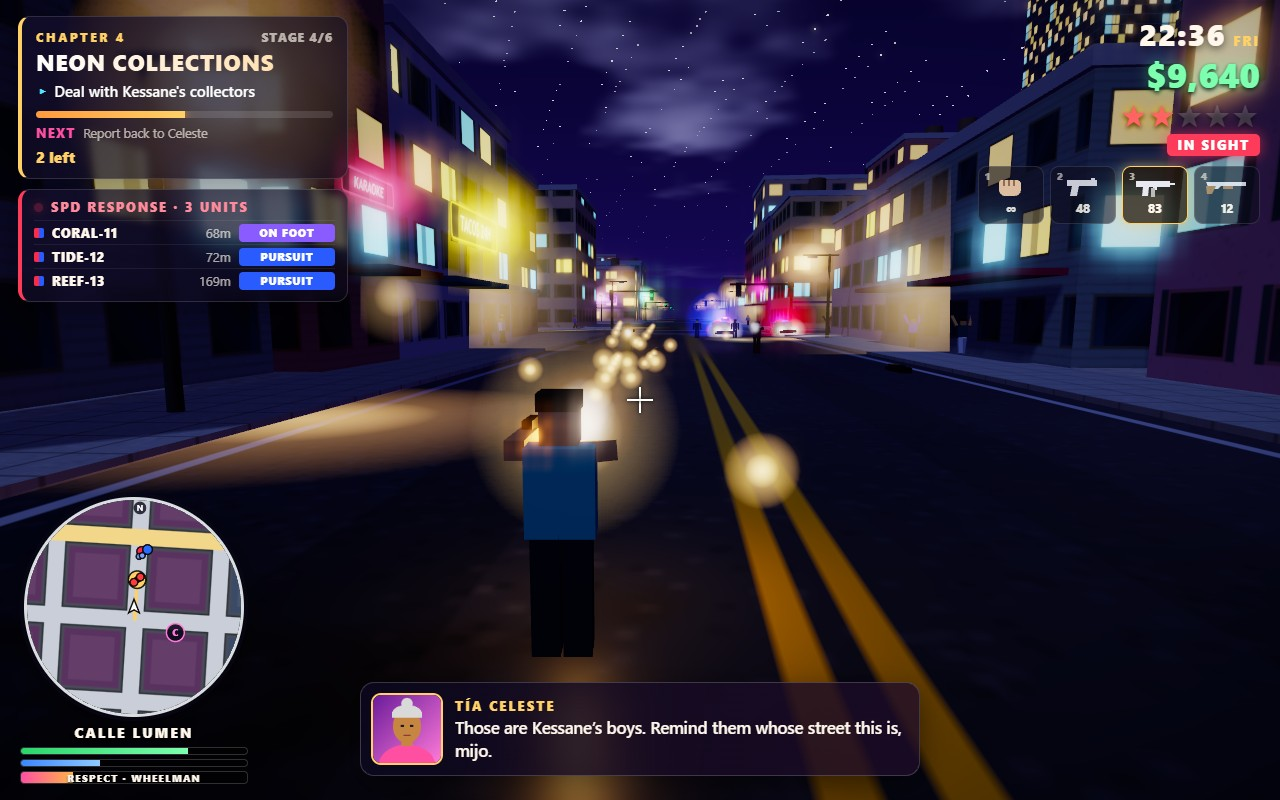
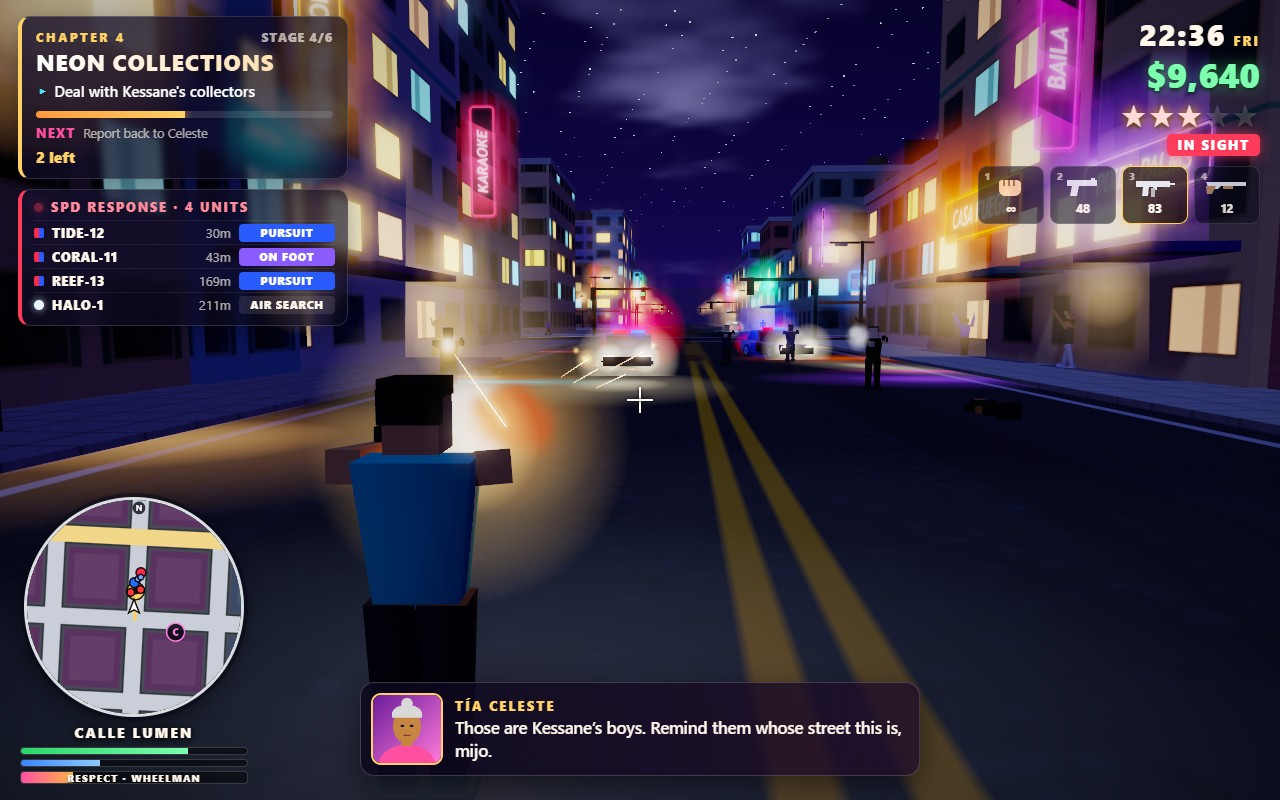
Causeway motorbike chase shot, riders on bikes and boats, searchlight and glow fixes, shot staging tools

diff --git a/game/src/shots/screenshotDirector.js b/game/src/shots/screenshotDirector.js
@@ -10,6 +10,7 @@
 //   map    - the full map with the story so far
 import * as THREE from 'three';
 import { wrapAngle, clamp } from '../core/mathUtils.js';
+import { RACES } from '../missions/sideActivities.js';
 
 const STEP = 1 / 60;
 
@@ -187,6 +188,58 @@ const SCENES = {
     game.autopilot = null;
     game.dialogue.pin('halloran', 'Kessane’s yacht just docked at the villa. Every cop in Solenne is on the causeway. Go!', game.cast);
     game.audio.radio = { nowPlaying: { station: 'RADIO CALOR 94.7', title: 'Marea Alta', artist: 'La Sonora Neón', art: 'linear-gradient(135deg,#ff3b3b,#ffd166)' } };
+    finalFrames(game);
+  },
+
+  async causeway(game) {
+    setup(game, 19.45);
+    game.teleportPlayer(560, -296, Math.PI / 2);
+    // keep the eastbound lane of the causeway clear for the run
+    for (const v of game.vehicles.list.slice()) if (Math.abs(v.body.z + 300) < 14 && v.body.x > 540 && v.body.x < 900) game.vehicles.remove(v);
+    const bike = game.vehicles.spawn('bike', 600, -295, Math.PI / 2, { role: 'mission', paint: 0x00f5d4 });
+    bike.body.invulnerable = true;
+    game.player.enterVehicle(bike, false);
+    bike.body.setVelocityForward(42);
+    game.state.storyIndex = 6;
+    game.state.money = 61380;
+    game.state.respect = 1240;
+    game.state.health = 91;
+    game.state.armour = 80;
+    game.state.weapons.smg = true;
+    game.state.ammo.smg = 120;
+    game.state.weapon = 'pistol';
+    game.state.races = { 'lumen-loop': 71.2, coastline: 66.8 };
+    game.activities.startRace(RACES[2]);
+    game.activities.cp = 2;
+    game.activities.time = 24.6;
+    game.autopilot = laneAutopilot(bike, -295, Math.PI / 2);
+    simulate(game, 1.4);
+    game.autopilot = null;
+    const pb = bike.body;
+    game.police.setWanted(2);
+    addUnit(game, 'patrol', pb.x - 5, -302.5, Math.PI / 2, pb.speed);
+    addUnit(game, 'patrol', pb.x - 10, -297, Math.PI / 2, pb.speed);
+    const flank = game.police.units.slice(0, 2);
+    flank.forEach((u, k) => {
+      const b = u.vehicle.body;
+      b.x = pb.x + (k ? -2.5 : 3.5); b.z = k ? -306.5 : -302.2; b.heading = pb.heading + (k ? 0.03 : 0.1);
+      b.setVelocityForward(pb.speed);
+      u.status = k ? 'PURSUIT' : 'RAMMING';
+      game.vehicles.syncMesh(u.vehicle);
+    });
+    game.police.setWanted(3);
+    const heli = game.police.heli;
+    heli.activate(pb.x, pb.z);
+    heli.x = pb.x + 60; heli.z = pb.z + 14; heli.y = 21;
+    heli.heading = Math.atan2(pb.x - heli.x, pb.z - heli.z);
+    heli.aim.set(pb.x + 3, 0, pb.z);
+    heli.update(0, { x: pb.x, z: pb.z });
+    game.police.inSight = true;
+    game.police.lastSeen = { x: pb.x, z: pb.z };
+    game.player.seatRider(bike);
+    game.dialogue.pin('dispatch', 'All units: motorcycle eastbound on the Halcyon Causeway. Close the island road!', game.cast);
+    game.audio.radio = { nowPlaying: { station: 'RADIO CALOR 94.7', title: 'Noche de Verano', artist: 'Santa Brisa', art: 'linear-gradient(135deg,#ff3b3b,#ffd166)' } };
+    game.cameraRig.shake = 0;
     finalFrames(game);
   },
 

diff --git a/game/src/ai/policeHelicopter.js b/game/src/ai/policeHelicopter.js
@@ -47,7 +47,15 @@ export class PoliceHelicopter {
     const coneGeo = new THREE.ConeGeometry(1, 1, 24, 1, true);
     coneGeo.translate(0, -0.5, 0);
     coneGeo.rotateX(-Math.PI / 2);
-    this.beam = new THREE.Mesh(coneGeo, new THREE.MeshBasicMaterial({ color: 0xbfdcff, transparent: true, opacity: 0.12, blending: THREE.AdditiveBlending, depthWrite: false, side: THREE.DoubleSide }));
+    // brightest at the lamp, fading toward the ground
+    const pos = coneGeo.attributes.position;
+    const fade = new Float32Array(pos.count * 3);
+    for (let i = 0; i < pos.count; i += 1) {
+      const k = 1 - 0.85 * Math.min(1, pos.getZ(i));
+      fade[i * 3] = fade[i * 3 + 1] = fade[i * 3 + 2] = k;
+    }
+    coneGeo.setAttribute('color', new THREE.BufferAttribute(fade, 3));
+    this.beam = new THREE.Mesh(coneGeo, new THREE.MeshBasicMaterial({ color: 0xbfdcff, vertexColors: true, transparent: true, opacity: 0.12, blending: THREE.AdditiveBlending, depthWrite: false, side: THREE.DoubleSide }));
     this.beam.renderOrder = 8;
     this.pool = new THREE.Mesh(new THREE.PlaneGeometry(1, 1).rotateX(-Math.PI / 2), new THREE.MeshBasicMaterial({ map: glowTexture(), color: 0xdcecff, transparent: true, opacity: 0.8, blending: THREE.AdditiveBlending, depthWrite: false }));
     this.pool.renderOrder = 4;
@@ -120,12 +128,13 @@ export class PoliceHelicopter {
     const len = Math.hypot(toX, toY, toZ);
     this.beam.position.set(lx, ly, lz);
     this.beam.lookAt(this.aim.x, 0, this.aim.z);
-    const radius = len * Math.tan(0.13);
+    const radius = Math.min(8, len * Math.tan(0.13));
     this.beam.scale.set(radius, radius, len);
-    this.beam.material.opacity = 0.012 + night * 0.1;
+    const near = Math.max(0, 1 - Math.max(0, len - 90) / 80);
+    this.beam.material.opacity = (0.012 + night * 0.07) * near;
     this.pool.position.set(this.aim.x, 0.15, this.aim.z);
-    this.pool.scale.set(radius * 3.2, 1, radius * 3.2);
-    this.pool.material.opacity = 0.12 + night * 0.55;
+    this.pool.scale.set(radius * 2.6, 1, radius * 2.6);
+    this.pool.material.opacity = (0.12 + night * 0.38) * Math.max(0.3, near);
     this.lamp = { x: lx, y: ly, z: lz };
   }
 

diff --git a/game/src/actors/playerController.js b/game/src/actors/playerController.js
@@ -35,6 +35,7 @@ export class PlayerController {
     this.figure.x = x; this.figure.z = z; this.figure.y = 0; this.figure.yaw = yaw;
     this.figure.visible = true;
     this.figure.state = 'idle';
+    this.figure.roll = 0;
   }
 
   update(dt) {
@@ -153,6 +154,7 @@ export class PlayerController {
     v.siren = false;
     this.vehicle = v;
     this.figure.visible = false;
+    this.seatRider(v);
     this.enterCooldown = 0.6;
     this.aiming = false;
     game.cameraRig.snapBehind(v.body.heading);
@@ -210,6 +212,7 @@ export class PlayerController {
     }
     const b = v.body;
     this.figure.x = b.x; this.figure.z = b.z;
+    this.seatRider(v);
     const st = this.game.state.stats;
     st.distance += b.speed * dt;
     st.maxSpeed = Math.max(st.maxSpeed, b.speed * 3.6);
@@ -217,6 +220,25 @@ export class PlayerController {
       if (v.body.sunk) this.exitSinking();
       else { this.damage(80, 'explosion'); this.exitVehicleForced(); }
     }
+  }
+
+  /** On a bike or at a boat's wheel the rider stays visible, posed on the vehicle. */
+  seatRider(v) {
+    const fig = this.figure;
+    const open = v.def.kind === 'bike' || v.def.kind === 'boat';
+    fig.visible = open;
+    if (!open) return;
+    const b = v.body;
+    const boat = v.def.kind === 'boat';
+    const back = boat ? -0.25 : -0.15;
+    fig.x = b.x + Math.sin(b.heading) * back + (boat ? Math.cos(b.heading) * -0.35 : 0);
+    fig.z = b.z + Math.cos(b.heading) * back - (boat ? Math.sin(b.heading) * -0.35 : 0);
+    fig.y = v.mesh.position.y + (boat ? 0.95 : 0.12);
+    fig.yaw = b.heading;
+    fig.roll = boat ? 0 : v.mesh.rotation.z;
+    fig.state = boat ? 'helm' : 'ride';
+    fig.speed = 0;
+    fig.aim = false;
   }
 
   exitSinking() {

diff --git a/game/src/render/particleEffects.js b/game/src/render/particleEffects.js
@@ -108,8 +108,9 @@ export class ParticleEffects {
     this.screenFlash = Math.max(0, this.screenFlash - dt * 2.5);
   }
 
-  flash(x, y, z, color, power, duration) {
+  flash(x, y, z, color, power, duration, reach = 14) {
     this.flashLight.position.set(x, y, z);
+    this.flashLight.distance = reach;
     this.flashLight.color.set(color);
     this.flashPower = power;
     this.flashDuration = duration;
@@ -144,7 +145,7 @@ export class ParticleEffects {
     this.hot.emit(x, y, z, dx * 2, 0, dz * 2, 0xffe0a0, big ? 2.6 : 1.8, 0.07, 0);
     this.hot.emit(x + dx * 0.4, y, z + dz * 0.4, dx * 6, 0, dz * 6, 0xff9a30, big ? 1.6 : 1.1, 0.06, 0);
     this.soft.emit(x, y, z, dx * 1.5 + this.r(0.3), 0.6, dz * 1.5 + this.r(0.3), 0xbbbbbb, 0.5, 0.6, 1.4);
-    this.flash(x, y, z, 0xffc070, big ? 30 : 18, 0.06);
+    this.flash(x, y, z, 0xffb060, big ? 7 : 4, 0.06, big ? 12 : 9);
   }
 
   impact(x, y, z) {
@@ -162,7 +163,7 @@ export class ParticleEffects {
     }
     for (let i = 0; i < 30; i += 1) this.soft.emit(x + this.r(2), y + this.rng() * 2, z + this.r(2), this.r(4), 2 + this.rng() * 4, this.r(4), 0x2b2b2b, 3, 2.5 + this.rng() * 1.5, 3);
     this.sparks(x, y, z, 30);
-    this.flash(x, y + 2, z, 0xff9040, 140, 0.6);
+    this.flash(x, y + 2, z, 0xff9040, 120, 0.6, 45);
     this.screenFlash = 0.35;
   }
 

diff --git a/game/src/actors/characterRig.js b/game/src/actors/characterRig.js
@@ -101,7 +101,7 @@ export class CharacterRig {
     const fall = dead ? Math.min(1, fig.deathTime * 3) : 0;
     rootM.compose(
       v.set(fig.x, fig.y + (dead ? 0.15 * fall : 0), fig.z),
-      q.setFromEuler(e.set(-fall * Math.PI / 2, fig.yaw, 0, 'YXZ')),
+      q.setFromEuler(e.set(-fall * Math.PI / 2, fig.yaw, fig.roll || 0, 'YXZ')),
       v.clone().set(s, s, s),
     );
     const swingAmt = Math.min(1, fig.speed / 3) * (fig.speed > 5 ? 0.95 : 0.6);
@@ -112,6 +112,11 @@ export class CharacterRig {
       armL: [-swing * 0.8, 0, -0.06], armR: [swing * 0.8, 0, 0.06],
       torso: [fig.speed > 5 ? 0.12 : 0, 0, 0], head: [0, 0, 0], hair: [0, 0, 0], gun: [0, 0, 0],
     };
+    if (fig.state === 'ride') {
+      angles.legL = [-1.35, 0, -0.18]; angles.legR = [-1.35, 0, 0.18];
+      angles.armL = [-1.15, 0, -0.12]; angles.armR = [-1.15, 0, 0.12];
+    }
+    if (fig.state === 'helm') { angles.armL = [-0.95, 0, -0.1]; angles.armR = [-0.95, 0, 0.1]; }
     if (fig.state === 'flee') { angles.armL = [-2.6, 0, -0.3]; angles.armR = [-2.6, 0, 0.3]; }
     if (fig.state === 'cower') { angles.armL = [-2.2, 0, 0.6]; angles.armR = [-2.2, 0, -0.6]; }
     if (fig.aim) {

diff --git a/game/src/vehicles/vehiclePhysics.js b/game/src/vehicles/vehiclePhysics.js
@@ -139,7 +139,7 @@ function bounce(body, nx, nz, restitution) {
   body.yawRate *= 0.5;
   const speed = -vn;
   if (speed > 6) {
-    body.health = Math.max(0, body.health - (speed - 6) * 2.2 / body.def.mass);
+    if (!body.invulnerable) body.health = Math.max(0, body.health - (speed - 6) * 2.2 / body.def.mass);
     body.lastImpact = speed;
   }
   return speed > 3 ? { speed } : null;
@@ -164,8 +164,8 @@ export function collideVehicles(a, b) {
   b.vx += (j / mb) * nx; b.vz += (j / mb) * nz;
   const speed = -rel;
   if (speed > 5) {
-    a.health = Math.max(0, a.health - speed * 1.2 / ma);
-    b.health = Math.max(0, b.health - speed * 1.2 / mb);
+    if (!a.invulnerable) a.health = Math.max(0, a.health - speed * 1.2 / ma);
+    if (!b.invulnerable) b.health = Math.max(0, b.health - speed * 1.2 / mb);
   }
   return speed;
 }

diff --git a/game/src/render/postEffects.js b/game/src/render/postEffects.js
@@ -93,9 +93,9 @@ export class PostEffects {
   setGrade(night, golden) {
     const g = this.composite.uniforms.grade.value;
     g.set(1 + golden * 0.06 - night * 0.04, 1 - night * 0.02, 1 - golden * 0.06 + night * 0.08);
-    this.composite.uniforms.bloomStrength.value = 0.55 + night * 0.75;
-    this.composite.uniforms.exposure.value = 1.0 + night * 0.25;
-    this.bright.uniforms.threshold.value = 0.95 - night * 0.3;
+    this.composite.uniforms.bloomStrength.value = 0.55 + night * 0.4;
+    this.composite.uniforms.exposure.value = 1.0 + night * 0.15;
+    this.bright.uniforms.threshold.value = 0.95 - night * 0.15;
   }
 
   render(scene, camera) {

diff --git a/game/src/world/streetProps.js b/game/src/world/streetProps.js
@@ -182,7 +182,7 @@ export class StreetProps {
 
   /** Night factor 0..1: light pools and billboard lamps come up after dusk. */
   setNight(night) {
-    if (this.poolMaterial) this.poolMaterial.opacity = 0.6 * night;
+    if (this.poolMaterial) this.poolMaterial.opacity = 0.34 * night;
     for (const m of this.billboardMaterials || []) m.emissiveIntensity = 0.55 * night;
     for (const m of this.neonMaterials || []) m.color.setScalar(0.8 + 0.9 * night);
   }

diff --git a/game/src/render/glowPoints.js b/game/src/render/glowPoints.js
@@ -14,7 +14,8 @@ void main() {
   float depth = -mv.z;
   gl_PointSize = min(size * scale / max(depth, 0.1), 360.0);
   float fog = smoothstep(fogNear, fogFar * 1.25, depth);
-  vAlpha = mix(1.0, night, nightOnly) * (1.0 - fog * 0.85);
+  // fade halos that pass right by the camera instead of letting them fill the screen
+  vAlpha = mix(1.0, night, nightOnly) * (1.0 - fog * 0.85) * smoothstep(1.5, 9.0, depth);
   vColor = tint;
 }`;
 const FRAG = /* glsl */ `

diff --git a/game/src/world/roadNetwork.js b/game/src/world/roadNetwork.js
@@ -198,8 +198,9 @@ export class RoadNetwork {
   /** Wet-look asphalt after dark: smoother, so the sky and neon reflect. */
   setWetness(w) {
     for (const m of [this.roadMaterial, this.junctionMaterial]) {
-      m.roughness = 0.78 - 0.4 * w;
-      m.metalness = 0.5 * w;
+      m.roughness = 0.78 - 0.38 * w;
+      m.metalness = 0.4 * w;
+      m.envMapIntensity = 1 - 0.75 * w;
     }
   }
 }

diff --git a/game/src/world/landmarks.js b/game/src/world/landmarks.js
@@ -160,7 +160,7 @@ export class Landmarks {
         }
       }
     }
-    for (let x = fromX; x <= toX; x += 22) for (const s of [-1, 1]) this.glow.push(x, 2.2, z + s * (w / 2), 0xbfe8ff, 3.5, 1, 0.8);
+    for (let x = fromX; x <= toX; x += 22) for (const s of [-1, 1]) this.glow.push(x, 2.2, z + s * (w / 2), 0xbfe8ff, 2.2, 1, 0.7);
   }
 
   island() {
